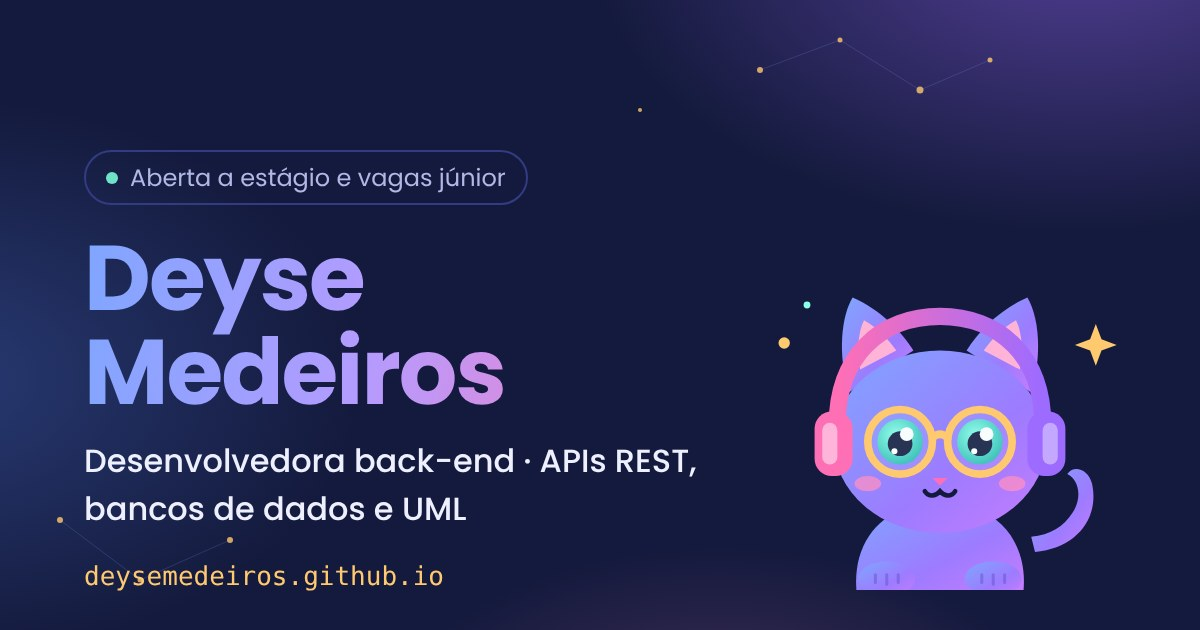
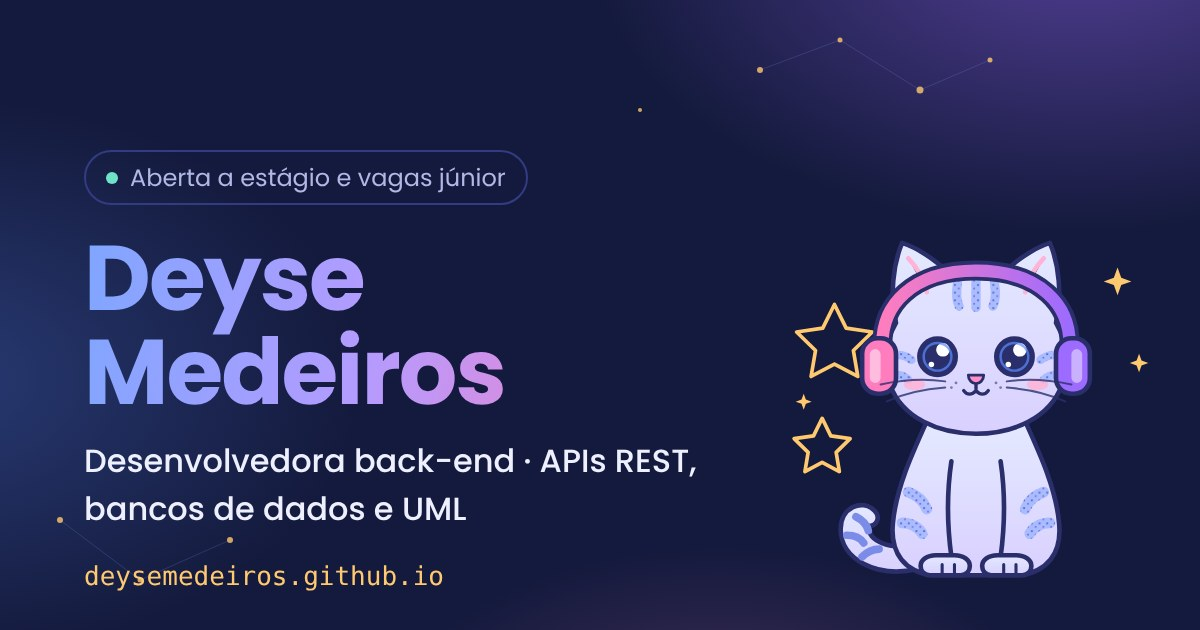
Novo mascote: gatinho malhado com fone, em traço de contorno

Changed region(s): [[0.6475, 0.3921, 0.9558, 0.9349], [0.925, 0.4222, 0.9558, 0.4524]]

diff --git a/index.html b/index.html
@@ -15,11 +15,11 @@
   <meta property="og:image:height" content="630">
   <meta property="og:image:alt" content="Deyse Medeiros, desenvolvedora back-end, com o mascote gatinho de óculos e fone">
   <meta name="twitter:card" content="summary_large_image">
-  <link rel="icon" href="favicon.svg?v=4" type="image/svg+xml">
+  <link rel="icon" href="favicon.svg?v=5" type="image/svg+xml">
   <link rel="preconnect" href="https://fonts.googleapis.com">
   <link rel="preconnect" href="https://fonts.gstatic.com" crossorigin>
   <link href="https://fonts.googleapis.com/css2?family=Poppins:wght@300;400;500;600;700&family=JetBrains+Mono:wght@400;500&display=swap" rel="stylesheet">
-  <link rel="stylesheet" href="style.css?v=4">
+  <link rel="stylesheet" href="style.css?v=5">
 </head>
 <body>
   <svg class="ceu" aria-hidden="true" viewBox="0 0 1440 900" preserveAspectRatio="xMidYMid slice">
@@ -78,7 +78,7 @@
       </div>
 
       <div class="terminal-area">
-        <img class="gato-dev" src="img/gato-dev.svg" alt="Mascote: gatinho de óculos e fone de ouvido espiando por cima da janela de código" width="200" height="170">
+        <img class="gato-dev" src="img/gato-dev.svg" alt="Mascote: gatinho malhado azul e lilás, de fone de ouvido, sentado em cima da janela de código" width="240" height="240">
         <div class="terminal" aria-label="Exemplo de requisição à API com os dados da Deyse">
         <div class="terminal-barra">
           <span class="metodo">GET</span>
@@ -322,6 +322,6 @@
     <p>Feito com café, um gatinho e um pouco de magia por Deyse Medeiros, <span id="ano">2026</span></p>
   </footer>
 
-  <script src="script.js?v=4"></script>
+  <script src="script.js?v=5"></script>
 </body>
 </html>

diff --git a/style.css b/style.css
@@ -204,15 +204,15 @@ h1 {
 .botao.primario:hover { background: var(--rosa); border-color: var(--rosa); color: var(--noite); }
 
 /* ---------- Terminal (o elemento de destaque) ---------- */
-.terminal-area { position: relative; padding-top: 180px; }
+.terminal-area { position: relative; padding-top: 214px; }
 .gato-dev {
   position: absolute;
   top: 0;
-  right: 40px;
-  width: 230px;
+  right: 24px;
+  width: 240px;
   height: auto;
   z-index: 2;
-  filter: drop-shadow(0 10px 24px rgba(157, 107, 255, .35));
+  filter: drop-shadow(0 10px 28px rgba(127, 166, 255, .3));
 }
 .terminal-area .terminal { position: relative; z-index: 1; }
 .terminal {
@@ -445,8 +445,8 @@ h1 {
   .terminal-corpo { font-size: .76rem; padding: 16px; min-height: 0; white-space: pre-wrap; }
   .terminal-barra { font-size: .76rem; padding: 12px 14px; }
   .http { display: none; }
-  .gato-dev { width: 160px; right: 16px; }
-  .terminal-area { padding-top: 124px; }
+  .gato-dev { width: 170px; right: 8px; }
+  .terminal-area { padding-top: 150px; }
   .galeria-app { grid-template-columns: repeat(3, minmax(0, 1fr)); gap: 10px; }
   .galeria-app img { border-radius: 12px; }
 }
